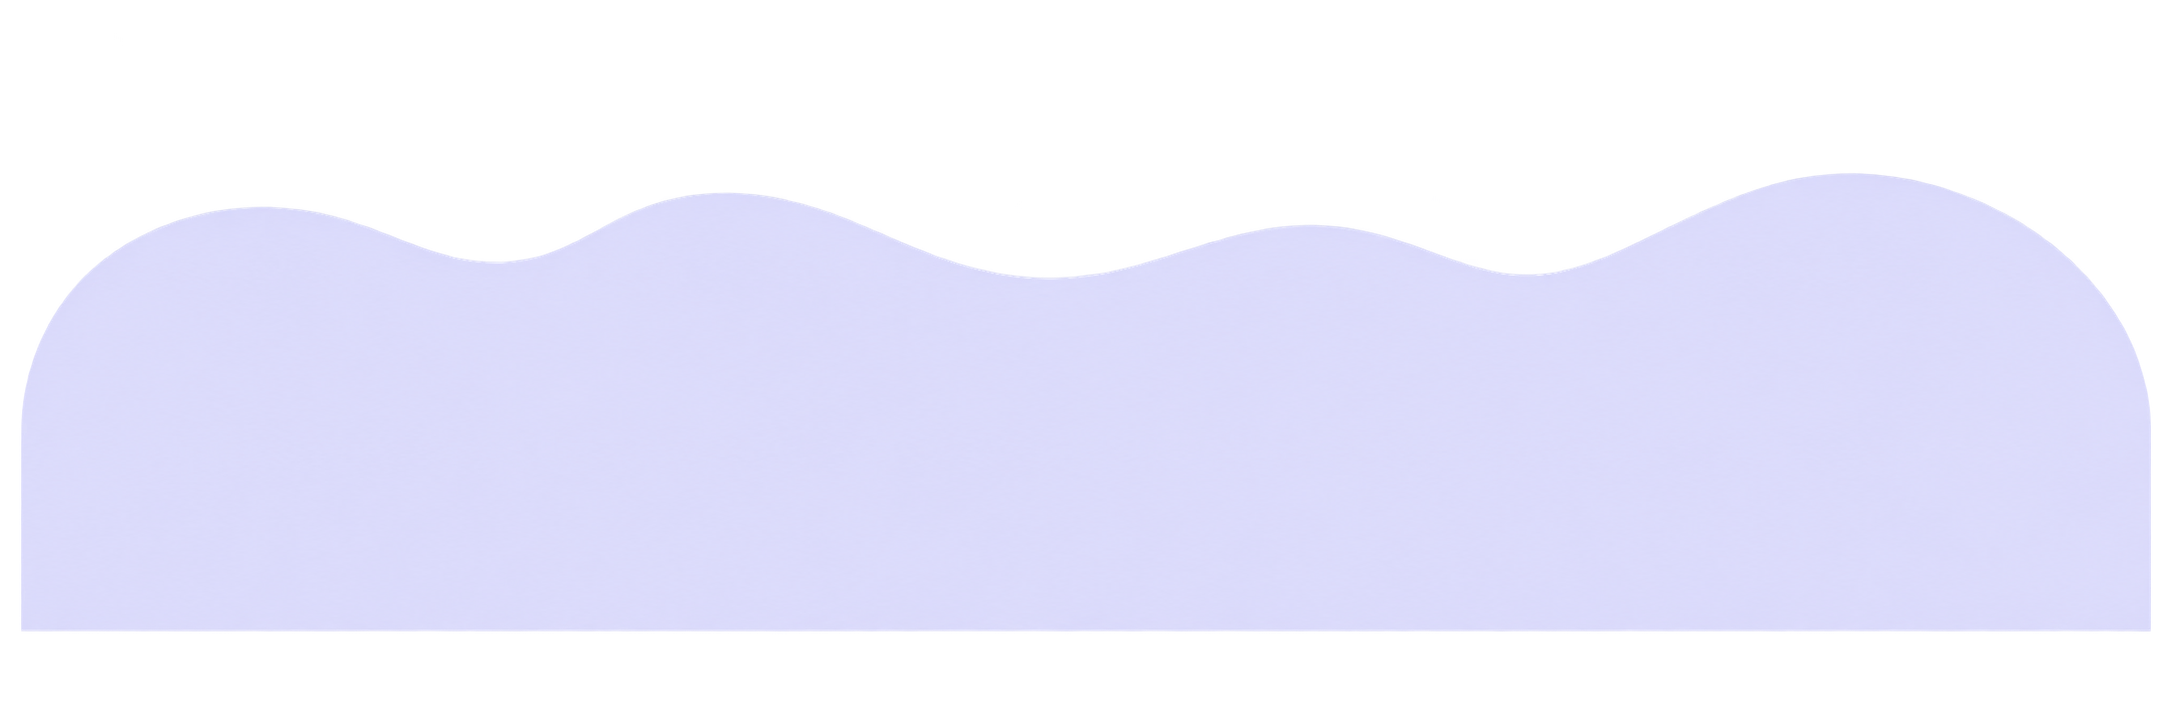
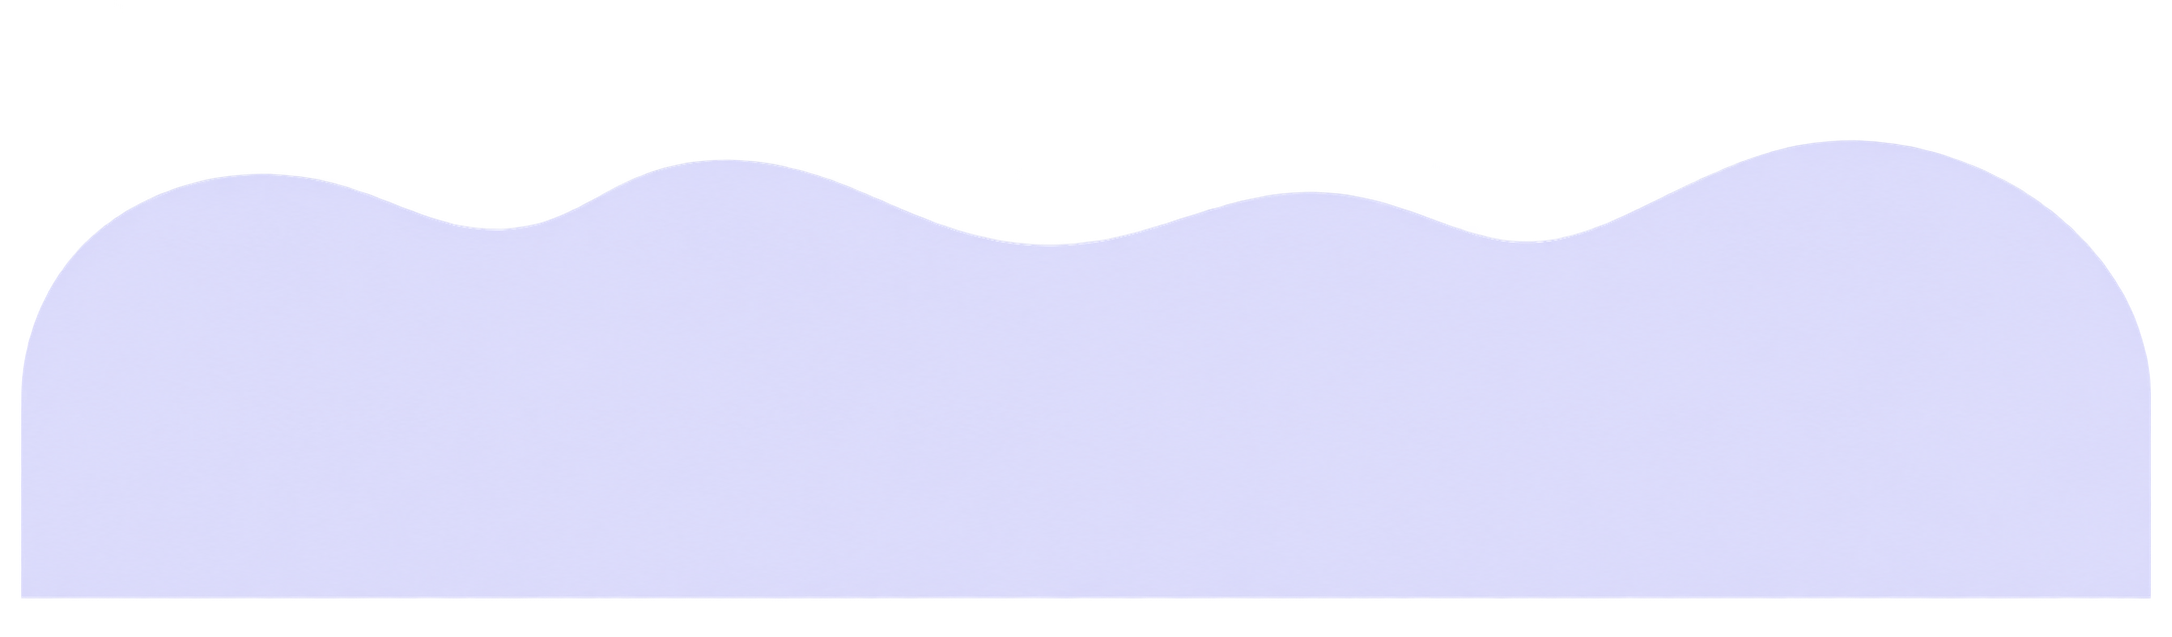
Polish the closing CTA section and fix the footer's remaining white gap
Wrap the "¡Es ahora!" content in a floating card (side margins, rounded
corners, soft shadow) with its content pulled in toward the center, give
the "Crear mi cuenta AHORA" button a white ring and a gentle up/down bob
animation.

The footer wave art (footer_bg.png) turned out to have ~50px of empty
transparent margin baked in above and below the visible shape, so even
with the asset path fixed, that margin exposed the plain white footer
background between the wave and the copyright bar. Cropped the PNG
tightly to its visible bounds and gave .footer-blob a solid background
matching the wave's own fill color, so any residual sizing mismatch
blends into the same color instead of showing white. Also aligned the
copyright bar's side padding with the section above it (48px -> 50px).

diff --git a/calendi/index.html b/calendi/index.html
@@ -883,12 +883,15 @@
     }
 
     /* ── CTA FINAL (ES AHORA) ── */
-    #cta-final {
+    .cta-final-card {
       background: #FBF3E4;
       position: relative;
       overflow: hidden;
+      border-radius: 36px;
+      box-shadow: 0 30px 70px rgba(30, 20, 80, .14);
+      padding: 64px 72px;
     }
-    #cta-final::before {
+    .cta-final-card::before {
       content: '';
       position: absolute;
       width: 480px;
@@ -902,7 +905,10 @@
     .cta-final-grid {
       display: flex;
       align-items: center;
+      justify-content: center;
       gap: 56px;
+      max-width: 1100px;
+      margin: 0 auto;
       position: relative;
       z-index: 1;
     }
@@ -995,13 +1001,18 @@
       background: var(--brand);
       color: var(--white);
       padding: 14px 12px 14px 26px;
+      border: 3px solid var(--white);
       border-radius: 100px;
       box-shadow: 0 16px 32px rgba(79,67,253,.35);
       text-decoration: none;
-      transform: rotate(-4deg);
-      transition: transform .18s ease, box-shadow .18s ease;
+      animation: cta-final-btn-bob 2.2s ease-in-out infinite;
+      transition: box-shadow .18s ease;
     }
-    .cta-final-btn:hover { transform: rotate(-4deg) translateY(-3px); box-shadow: 0 20px 38px rgba(79,67,253,.42); }
+    .cta-final-btn:hover { box-shadow: 0 20px 40px rgba(79,67,253,.45); animation-play-state: paused; }
+    @keyframes cta-final-btn-bob {
+      0%, 100% { transform: rotate(-4deg) translateY(0); }
+      50% { transform: rotate(-4deg) translateY(-10px); }
+    }
     .cta-final-btn-text {
       font-weight: 800;
       font-size: 15px;
@@ -1306,7 +1317,7 @@
     /* ── FOOTER ── */
     footer { background: var(--white); }
     .footer-bottom-wrap { background: #DBDBFB; }
-    .footer-blob { position: relative; }
+    .footer-blob { position: relative; background: #DBDBFB; }
     .footer-blob-bg {
       display: block;
       width: 100%;
@@ -1322,7 +1333,7 @@
       gap: 40px;
       max-width: 1440px;
       margin: 0 auto;
-      padding: 12% 48px 6%;
+      padding: 7% 50px 4%;
     }
     .footer-brand-col { flex: 0 0 250px; }
     .footer-logo { height: 68px; width: auto; display: block; margin-bottom: 20px; }
@@ -1418,7 +1429,7 @@
       gap: 12px;
       max-width: 1440px;
       margin: 0 auto;
-      padding: 20px 48px 32px;
+      padding: 20px 50px 32px;
     }
     .footer-copy { font-size: 12.5px; font-weight: 600; color: var(--mid); }
     .footer-legal-links { display: flex; align-items: center; gap: 10px; font-size: 12.5px; font-weight: 600; color: var(--mid); }
@@ -1488,14 +1499,14 @@
       .cta-band-img { height: 160px; }
 
       /* CTA final */
+      .cta-final-card { padding: 40px 24px; border-radius: 28px; }
       .cta-final-grid { flex-direction: column; text-align: center; gap: 36px; }
       .cta-final-content { text-align: center; }
       .cta-final-note { margin-left: 0; }
       .cta-final-pillars { justify-content: center; }
       .cta-final-pillar { align-items: center; text-align: center; }
       .cta-final-visual { max-width: 320px; width: 100%; flex: none; margin: 0 auto; }
-      .cta-final-btn { position: static; margin: 20px auto 0; transform: none; }
-      .cta-final-btn:hover { transform: translateY(-3px); }
+      .cta-final-btn { position: static; margin: 20px auto 0; }
 
       /* Pricing */
       .pricing-grid { grid-template-columns: 1fr !important; max-width: 420px; margin: 0 auto; }
@@ -2018,6 +2029,7 @@
   <!-- CTA FINAL (ES AHORA) -->
   <section id="cta-final">
     <div class="section-inner">
+      <div class="cta-final-card">
       <div class="cta-final-grid">
         <div class="cta-final-content">
           <div class="cta-final-note">¡Es ahora!</div>
@@ -2052,6 +2064,7 @@
             <span class="cta-final-btn-arrow"><svg viewBox="0 0 24 24" fill="none" stroke="currentColor" stroke-width="2.5" stroke-linecap="round" stroke-linejoin="round"><line x1="5" y1="12" x2="19" y2="12"/><polyline points="12 5 19 12 12 19"/></svg></span>
           </a>
         </div>
+      </div>
       </div>
     </div>
   </section>
